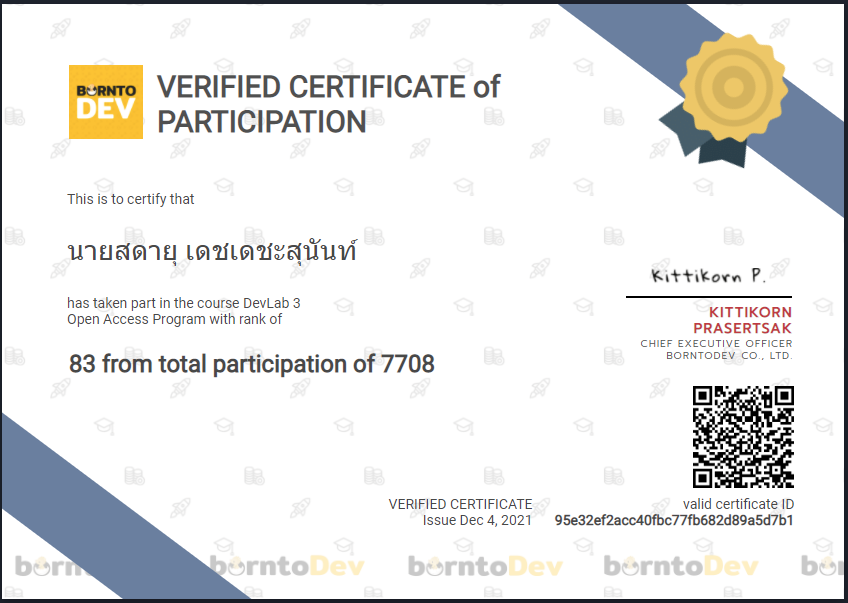
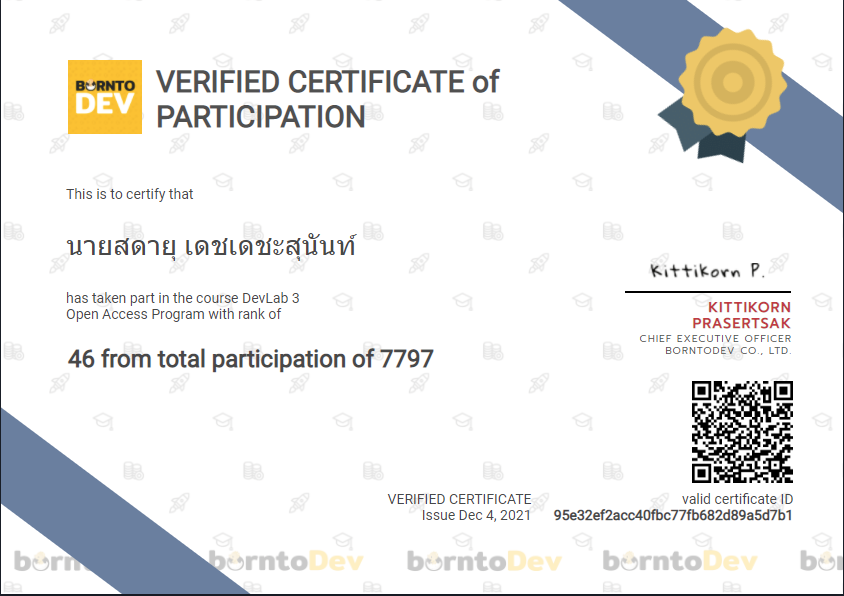
DevLab update

diff --git a/index.html b/index.html
@@ -305,7 +305,7 @@
                     <div class="cer">
                         <img src="img/Devlab.PNG" alt="">
                         <div class="layer">
-                            <h3>Dev Lab rank 83 of 7708</h3>
+                            <h3>Dev Lab rank 46 of 7797</h3>
                         </div>
                     </div>
                     <div class="cer">
